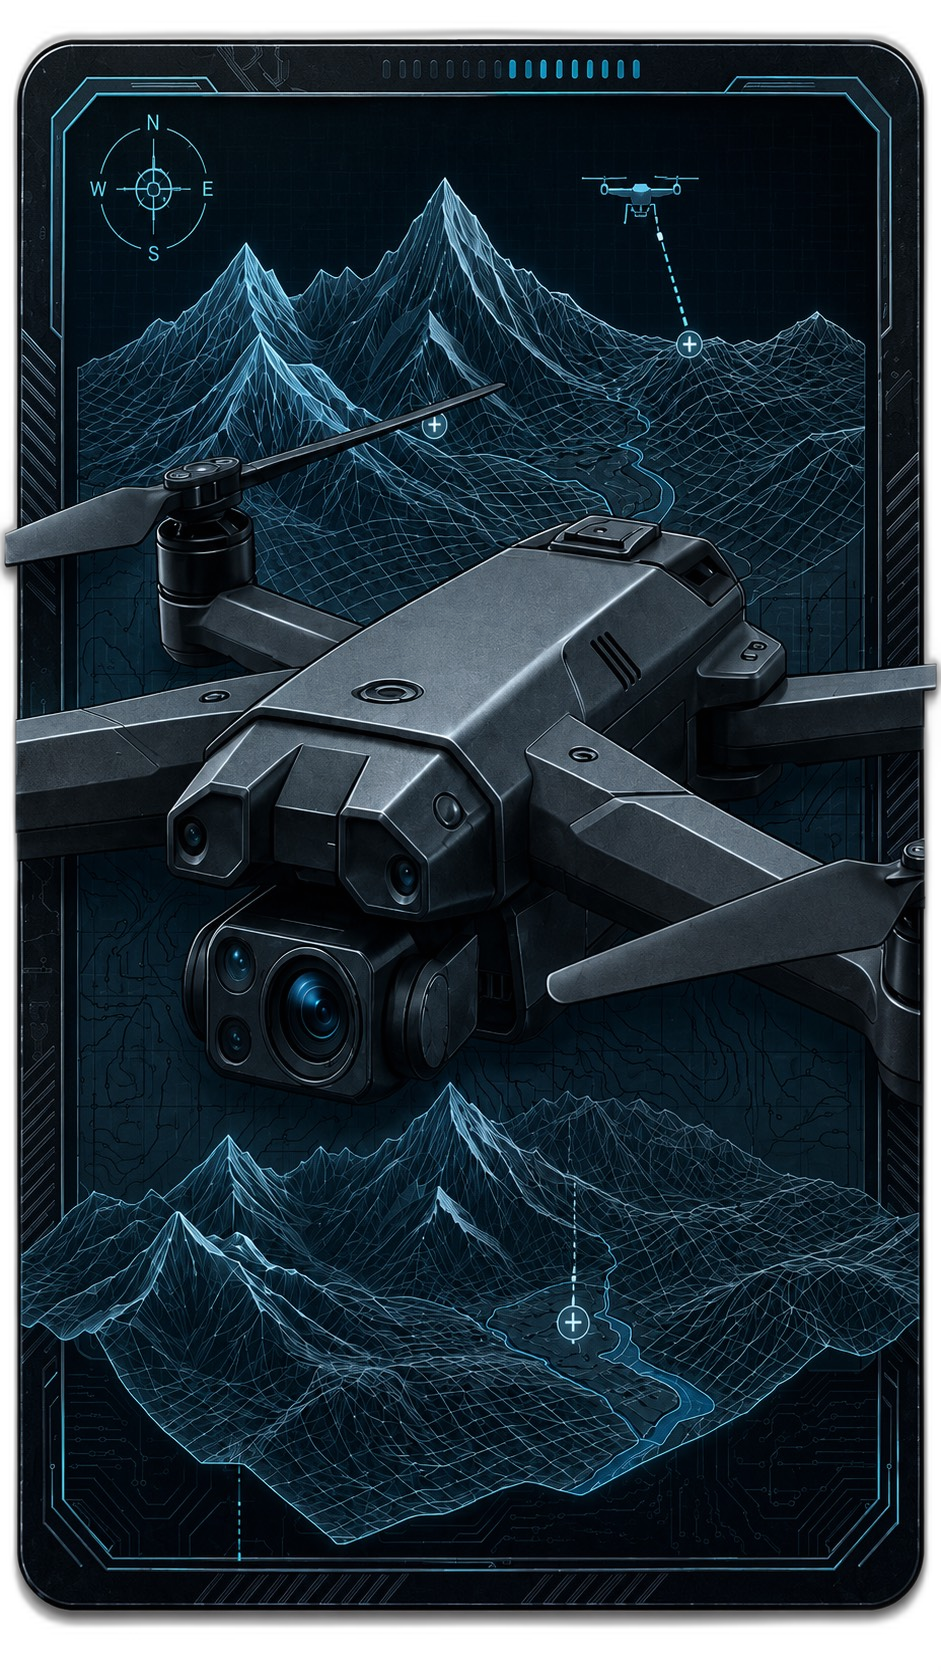
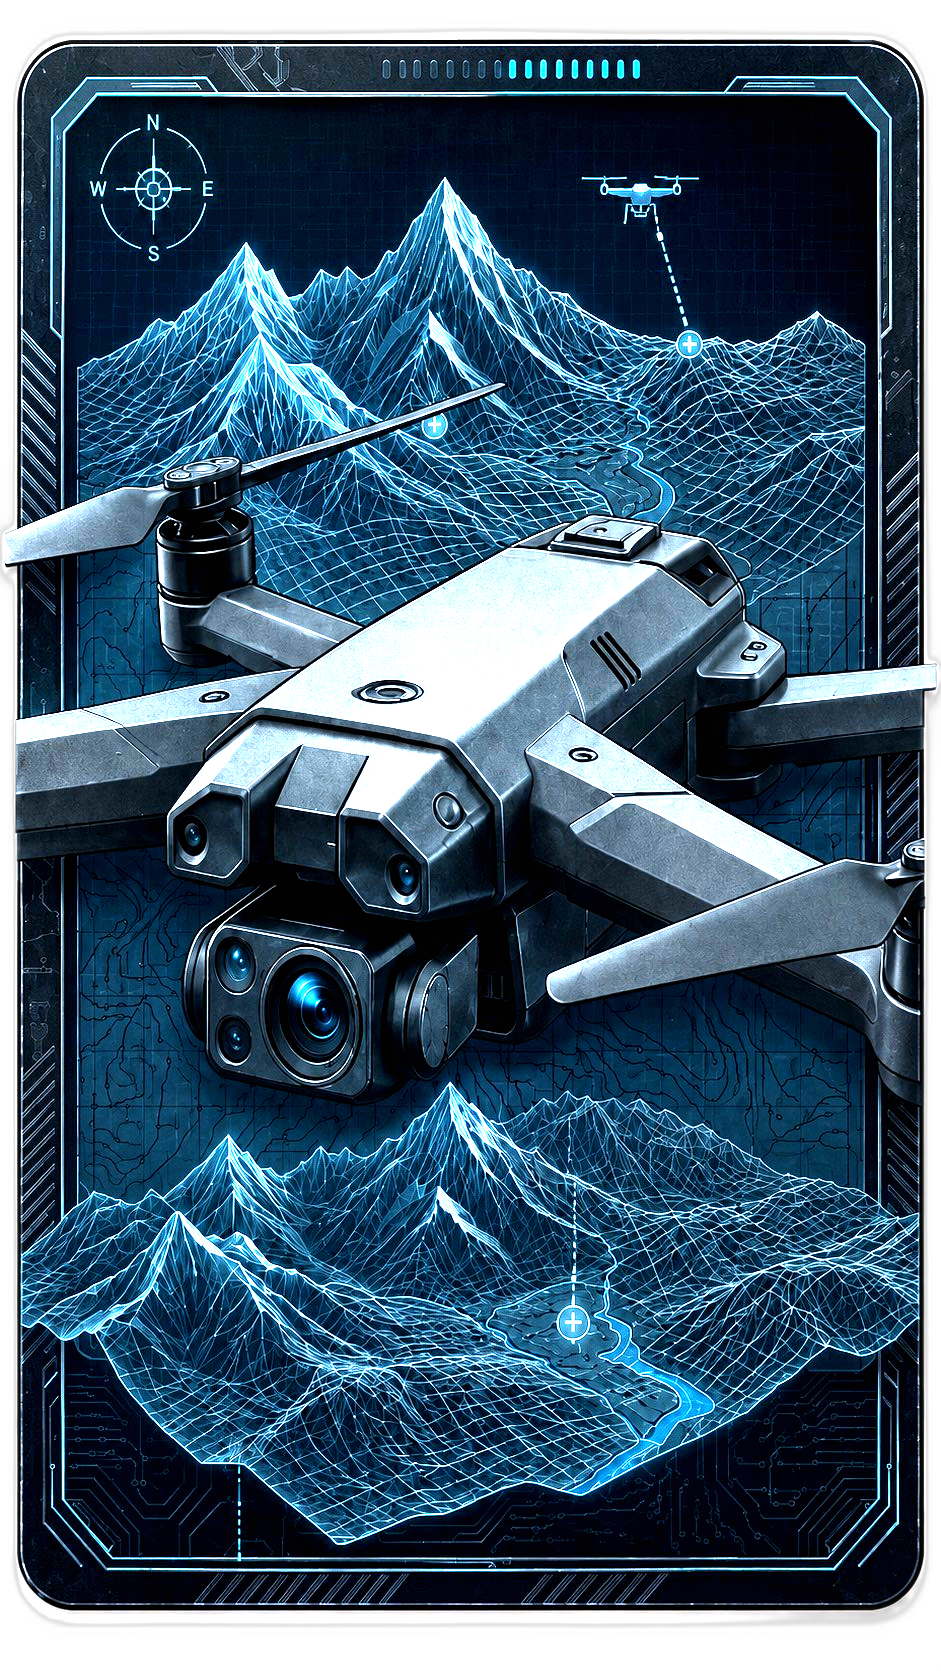
Brighten drone card image for better color-dodge holographic effect
Increased brightness (2.2x) and contrast (1.3x) on card.png so the drone
body shifts from mid-gray to brighter silver, making color-dodge produce
more visible foil sparkle. Reverts card layout back to original drone photo.

https://claude.ai/code/session_01MHNonbEnk4FDZUR3MzPCbh

diff --git a/index.html b/index.html
@@ -83,7 +83,7 @@
 
       /* Card proportions match the drone card image (941 × 1671 px) */
       width: clamp(185px, 33vw, 235px);
-      aspect-ratio: 630 / 882;
+      aspect-ratio: 941 / 1671;
       position: relative;
       cursor: pointer;
       will-change: transform;
@@ -114,7 +114,7 @@
       display: block;
       width: 100%;
       height: 100%;
-      object-fit: cover;
+      object-fit: contain;
       pointer-events: none;
       border-radius: inherit;
     }
@@ -252,7 +252,7 @@
       <div class="card-face">
         <img
           class="card-img"
-          src="card_v2.png"
+          src="card.png"
           alt="Dragonfly UAS Drone Card"
           loading="eager"
         />
